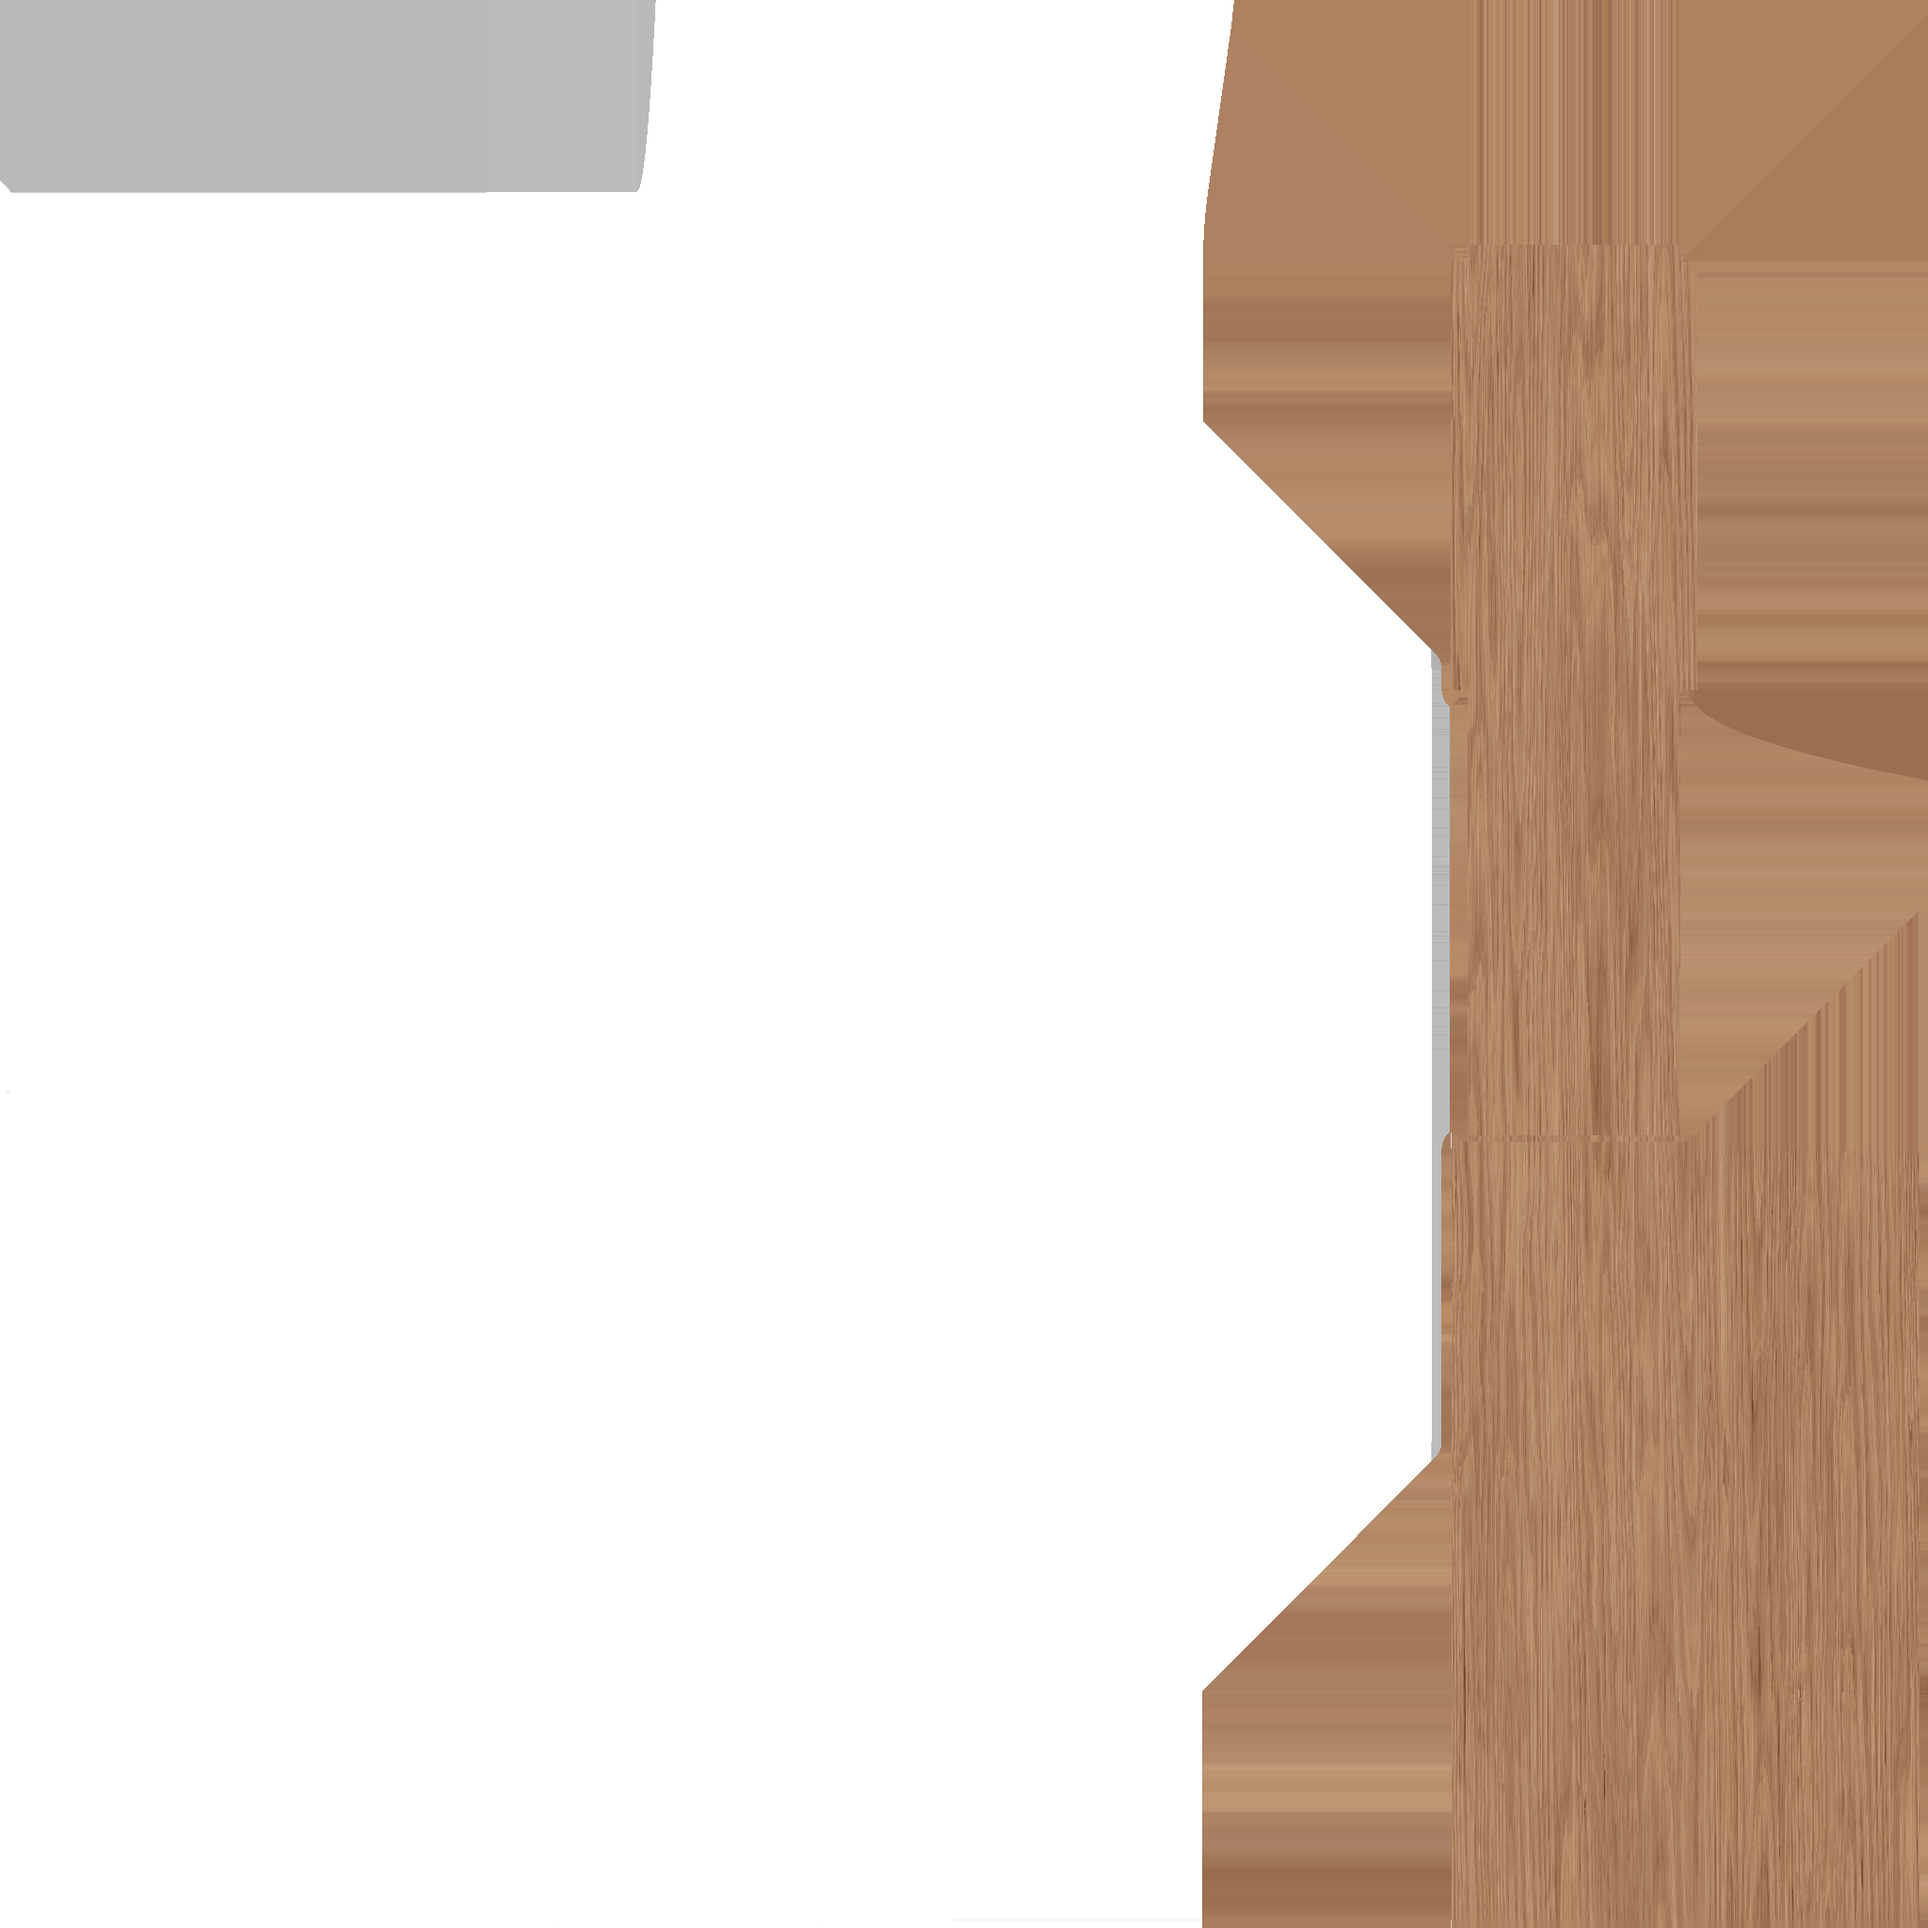
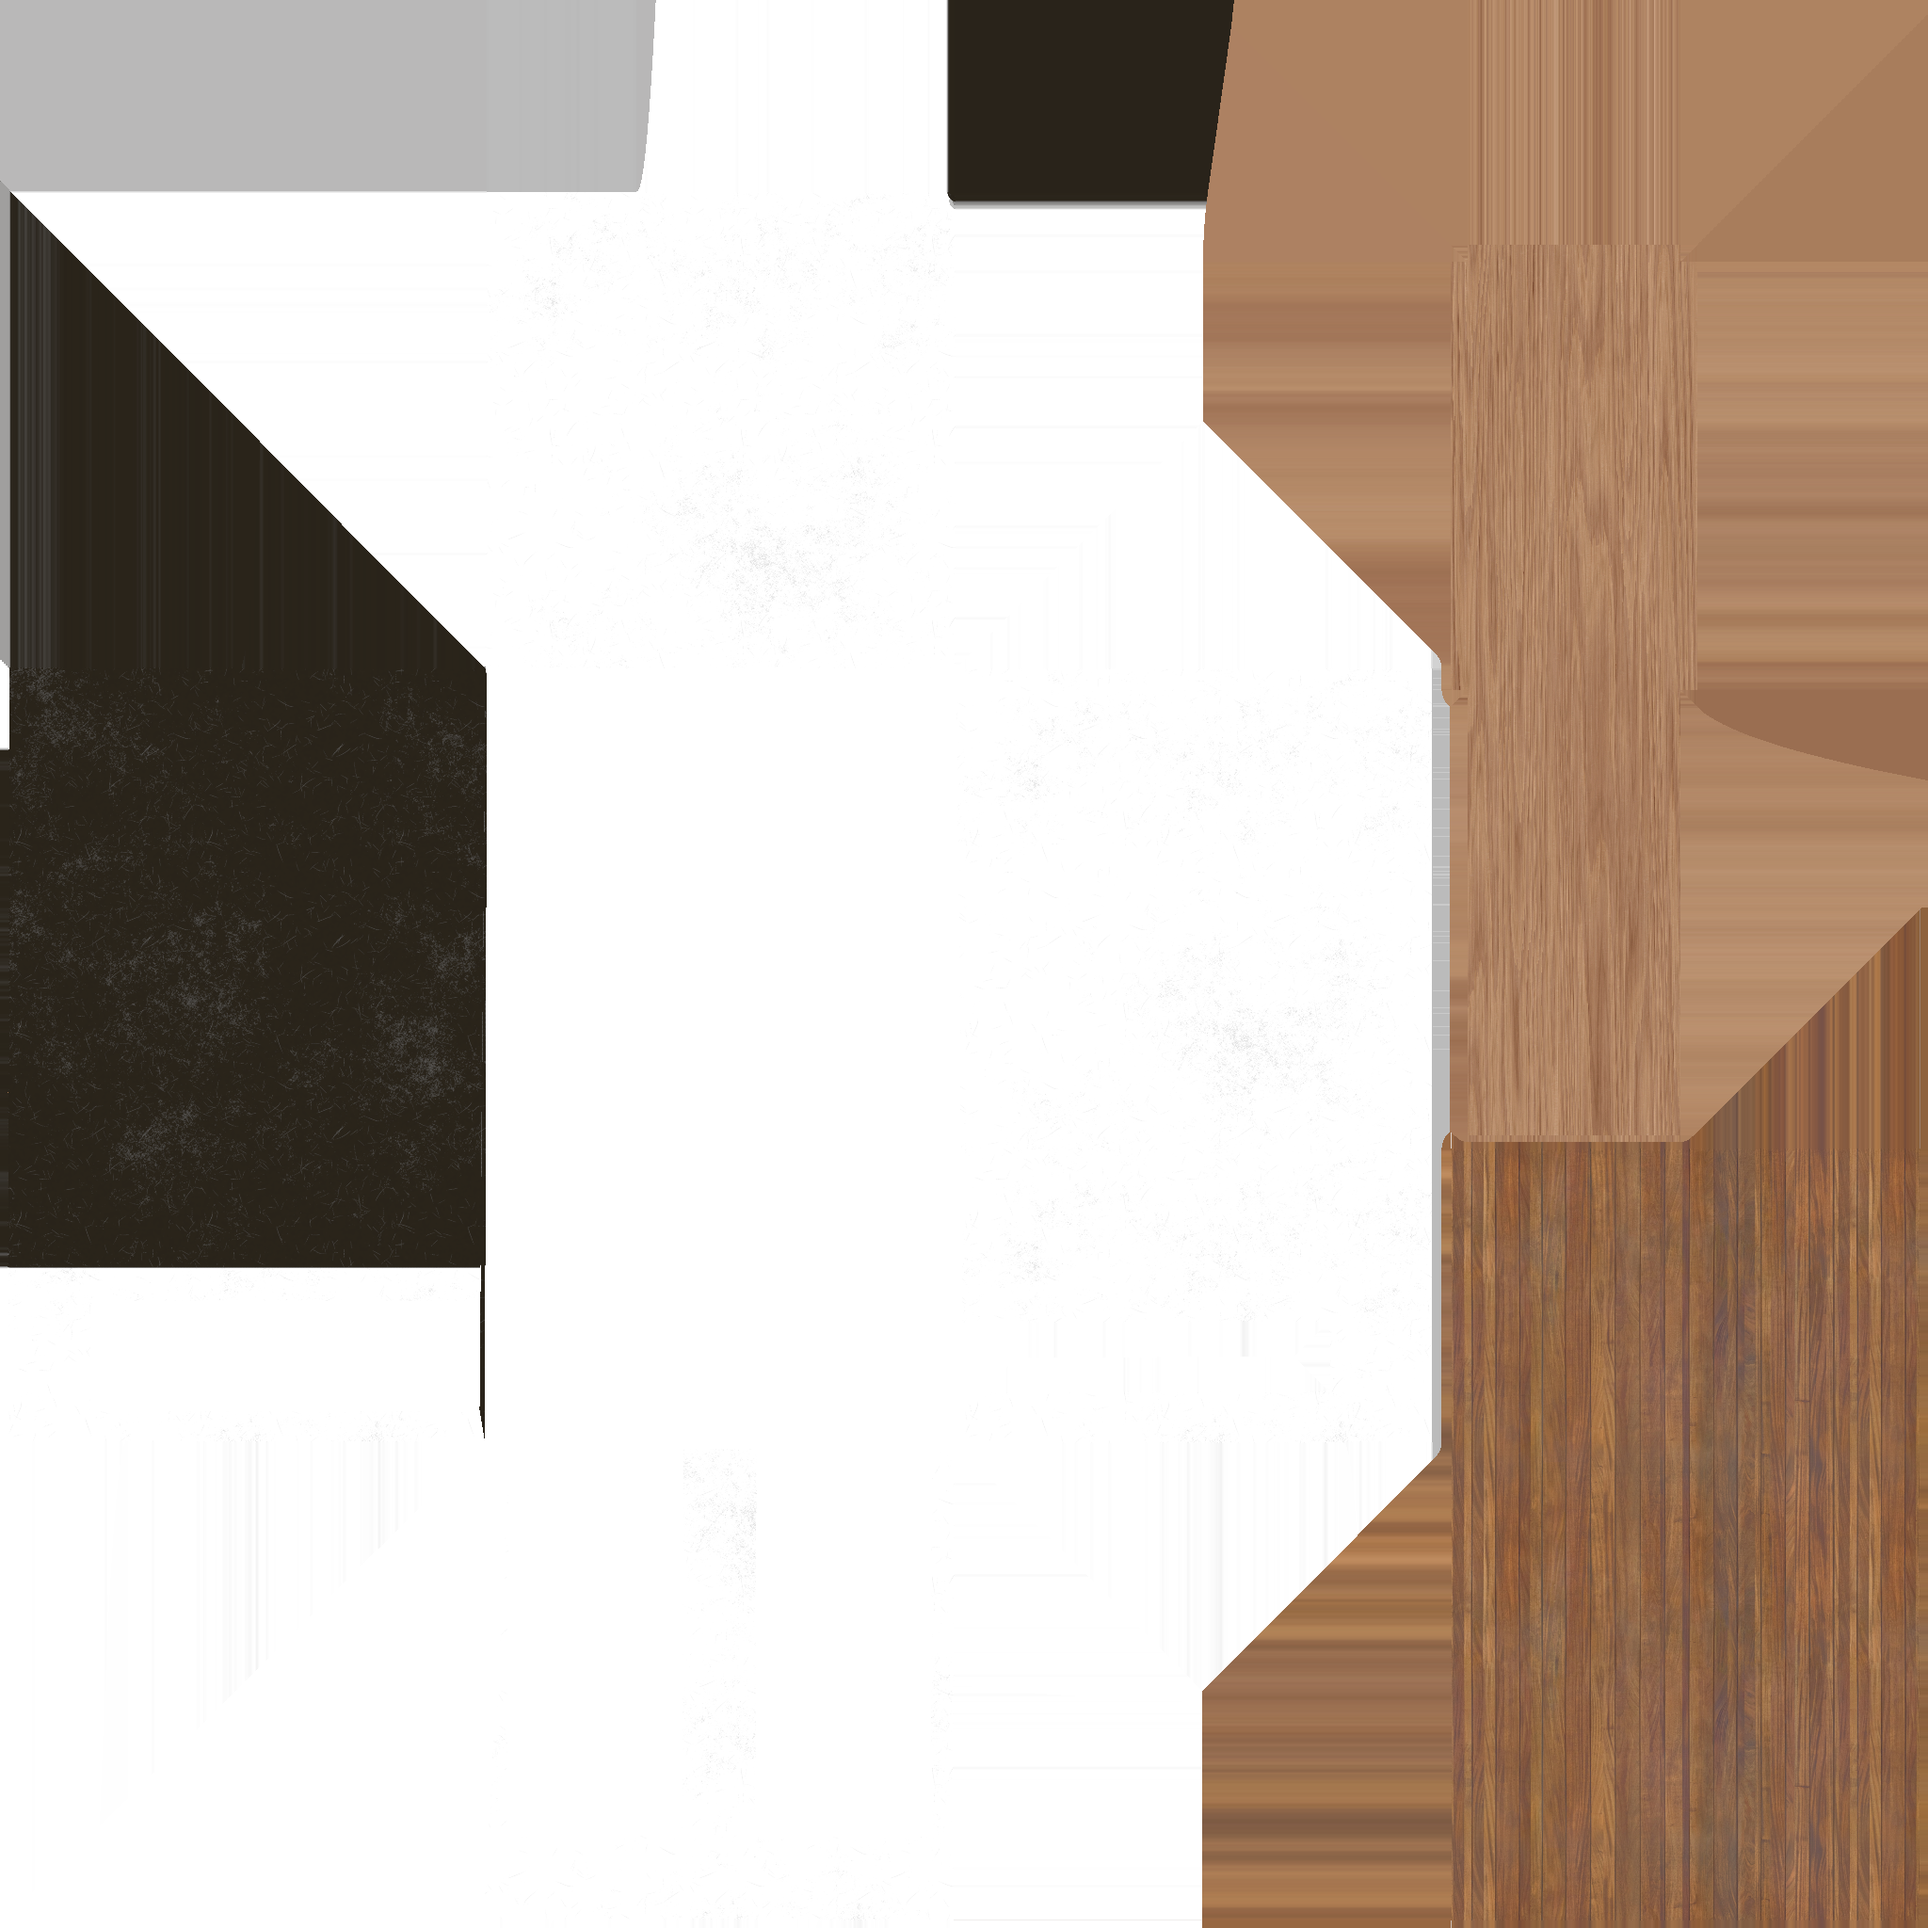
modify: 贴图更新

Changed region(s): [[0.625, 0.4688, 1.0, 1.0], [0.0, 0.0938, 0.25, 0.6562], [0.4688, 0.0, 0.6562, 0.125]]

diff --git a/src/scene/demo.cpp b/src/scene/demo.cpp
@@ -57,7 +57,7 @@ namespace scene::demo::model {
         "assets/PBR/bookshelf_2",
         "assets/PBR/chandelier",
         "assets/PBR/clock",
-        // "assets/PBR/pot_plant",
+        "assets/PBR/pot_plant",
         "assets/PBR/room",
         "assets/PBR/sofa",
         "assets/PBR/table",
